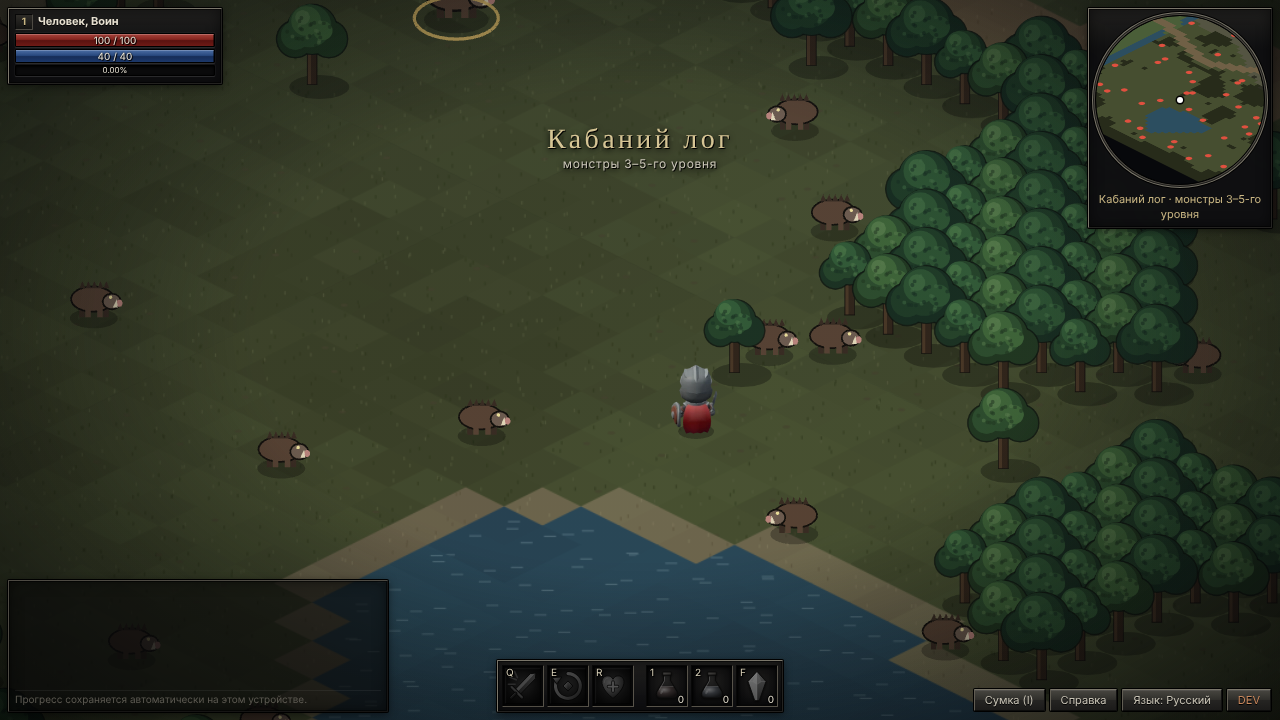
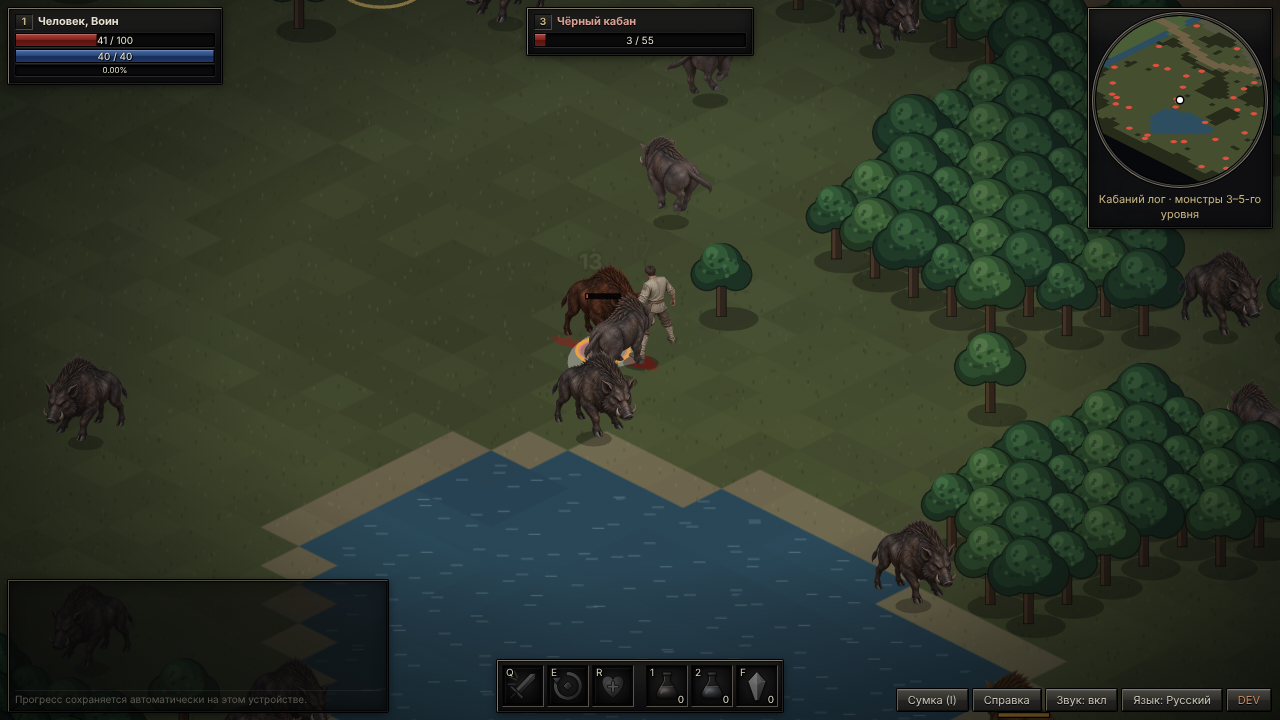
Replace chibi characters with realistic AI-generated sprites
Heroes get three looks per class (peasant, leather, graded armour),
chosen by the body armour worn. New sheets for the wolf, boar, tusker,
mine ghoul and the villagers. Houses are taller to match the people.

Claude-Session: https://claude.ai/code/session_01VPfyaqrToSW6rDgFzHRfny

diff --git a/src/client/DungeonScene.ts b/src/client/DungeonScene.ts
@@ -16,6 +16,8 @@ import { drawHeroFigure, drawMonsterFigure, drawNpcFigure, drawShadow, drawWeapo
 import { EXIT_COLOR, REGION_LOOK, ROAD_COLOR } from './zoneText';
 
 const WALL_HEIGHT = 30;
+/** Houses stand taller than the people who live in them. */
+const HOUSE_HEIGHT = 78;
 const HALF_W = TILE_WIDTH / 2;
 const HALF_H = TILE_HEIGHT / 2;
 /** While the pointer is held down, the destination follows it at this interval. */
@@ -1145,8 +1147,8 @@ export class DungeonScene extends Phaser.Scene {
     if (npc.kind !== 'guard') {
       // A sign over the head marks someone worth talking to.
       const sign = this.add.graphics();
-      sign.fillStyle(0x14110d).fillCircle(0, -64, 5.5);
-      sign.fillStyle(NPC_LOOK[npc.kind].sign).fillCircle(0, -64, 4.2);
+      sign.fillStyle(0x14110d).fillCircle(0, -88, 5.5);
+      sign.fillStyle(NPC_LOOK[npc.kind].sign).fillCircle(0, -88, 4.2);
       parts.push(sign);
     }
     return this.add.container(at.x, at.y, parts).setDepth(depth);
@@ -1441,17 +1443,17 @@ export class DungeonScene extends Phaser.Scene {
       }
     });
     for (const [key, lit] of [['house', false], ['houseLit', true]] as const) {
-      block(key, 44, (g, c) => {
+      block(key, HOUSE_HEIGHT, (g, c) => {
         // Plastered walls with dark timbers under a tiled roof.
-        this.drawBlock(g, c, 44, 0xb9a887, 0x94836a, 0x9c4636);
+        this.drawBlock(g, c, HOUSE_HEIGHT, 0xb9a887, 0x94836a, 0x9c4636);
         g.lineStyle(2, 0x4a3524, 0.9);
-        g.lineBetween(c.x - HALF_W, c.y - 44, c.x - HALF_W, c.y).lineBetween(c.x, c.y - 44 + HALF_H, c.x, c.y + HALF_H).lineBetween(c.x + HALF_W, c.y - 44, c.x + HALF_W, c.y);
-        g.lineBetween(c.x - HALF_W, c.y - 22, c.x, c.y - 22 + HALF_H).lineBetween(c.x, c.y - 22 + HALF_H, c.x + HALF_W, c.y - 22);
+        g.lineBetween(c.x - HALF_W, c.y - HOUSE_HEIGHT, c.x - HALF_W, c.y).lineBetween(c.x, c.y - HOUSE_HEIGHT + HALF_H, c.x, c.y + HALF_H).lineBetween(c.x + HALF_W, c.y - HOUSE_HEIGHT, c.x + HALF_W, c.y);
+        g.lineBetween(c.x - HALF_W, c.y - HOUSE_HEIGHT / 2, c.x, c.y - HOUSE_HEIGHT / 2 + HALF_H).lineBetween(c.x, c.y - HOUSE_HEIGHT / 2 + HALF_H, c.x + HALF_W, c.y - HOUSE_HEIGHT / 2);
         // Rows of tiles on the roof.
         g.lineStyle(1, 0x6e2d22, 0.8);
         for (let i = 1; i < 4; i++) {
           const k = i / 4;
-          g.lineBetween(c.x - HALF_W + HALF_W * k, c.y - 44 - HALF_H * k, c.x + HALF_W * k, c.y - 44 + HALF_H - HALF_H * k);
+          g.lineBetween(c.x - HALF_W + HALF_W * k, c.y - HOUSE_HEIGHT - HALF_H * k, c.x + HALF_W * k, c.y - HOUSE_HEIGHT + HALF_H - HALF_H * k);
         }
         if (lit) {
           // A window with a warm light on the left wall.

diff --git a/src/client/sheets.ts b/src/client/sheets.ts
@@ -36,8 +36,9 @@ export function heroLook(armor: ItemId | null): number {
 /** Monsters that have a sheet; the others are still drawn from shapes. The young wolf is a small wolf. */
 export const MONSTER_SHEET: Partial<Record<MonsterKind, string>> = { wolfPup: 'wolf', wolf: 'wolf', boar: 'boar', tusker: 'tusker', grunt: 'ghoul' };
 /** How large each sheet is shown, in screen pixels per frame pixel. */
-const SHEET_SCALE: Record<string, number> = { wolf: 0.42, boar: 0.5, tusker: 0.6, ghoul: 0.56 };
-const DEFAULT_SCALE = 0.56;
+const SHEET_SCALE: Record<string, number> = { wolf: 0.38, boar: 0.44, tusker: 0.52, ghoul: 0.56 };
+/** Villagers are single pictures that fill their frame; heroes leave room in theirs for a swung weapon. */
+const scaleOf = (sheet: string): number => SHEET_SCALE[sheet] ?? (sheet.startsWith('npc-') ? 0.44 : 0.48);
 export const NPC_SHEET: Record<NpcKind, string> = {
   alchemist: 'npc-alchemist',
   outfitter: 'npc-outfitter',
@@ -99,7 +100,7 @@ export function hasSheet(scene: Phaser.Scene, sheet: string | undefined): sheet 
 /** A sprite of the given sheet, standing on its feet at (0, 0). */
 export function createCharacter(scene: Phaser.Scene, sheet: string): Phaser.GameObjects.Sprite {
   const meta = metaOf(scene, sheet) as SheetMeta;
-  return scene.add.sprite(0, 0, sheet, 0).setOrigin(meta.anchor.x, meta.anchor.y).setScale(SHEET_SCALE[sheet] ?? DEFAULT_SCALE);
+  return scene.add.sprite(0, 0, sheet, 0).setOrigin(meta.anchor.x, meta.anchor.y).setScale(scaleOf(sheet));
 }
 
 /**
